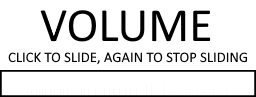
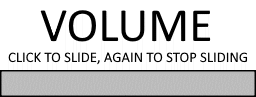
Pause Menu, Level 1 Added pause overlay with continue button, volume slider, and main menu button. Added level 1 plus its background, updated wall & door sprites. Added ability for guards to find dead guards and raise the alarm.

Changed region(s): [[0.0, 0.7113, 1.0, 0.9897]]

diff --git a/sprites.py b/sprites.py
@@ -32,7 +32,10 @@ aliveEnemyList = []
 enemyList = []
 bulletList = []
 
+# Value from the slider to be used as sound volume.
 normalisedValue = 0.5
+# Value used in main to check if guards have found a dead guard.
+enemyDetected = False
 
 
 class Player(pygame.sprite.Sprite):
@@ -359,6 +362,23 @@ class Door(pygame.sprite.Sprite):
             self.image = i.doorVerBrokenImage
 
 
+class Background(pygame.sprite.Sprite):
+    def __init__(self, mapNum):
+        pygame.sprite.Sprite.__init__(self)
+        allSprites.add(self)
+        self.image = i.map2Image
+        self.rect = self.image.get_rect(topleft=(0, 0))
+        self.mapNum = mapNum
+
+    def map_type(self):
+        if self.mapNum == 1:
+            self.image = i.map2Image
+        elif self.mapNum == 2:
+            self.image = i.map2Image
+        elif self.mapNum == 3:
+            self.image = i.map2Image
+
+
 class Enemy(pygame.sprite.Sprite):
 
     def __init__(self, xPos, yPos):
@@ -389,16 +409,8 @@ class Enemy(pygame.sprite.Sprite):
     def update(self):
         self.animation()
         if self.alive:
-            # Use the smallest rect (hitBox) for bullet collisions -- the enemy shouldn't die if the bullet just hits its torchlight.
-            # Loop through the bullets.
-            for bullet in bulletList:
-                # If a collision occurred:
-                if self.hitBox.colliderect(bullet.rect):
-                    # Delete enemy from all groups, set the bullet's alive status to false.
-                    bullet.alive = False
-                    self.alive = False
-                    aliveEnemyList.remove(self)
-                    pygame.mixer.Sound.play(i.guardDeathSound)
+            self.check_bullets()
+            self.check_dead_guards()
             # Move and look if the wait timer has run out -- see self.turn()
             if self.canMove <= pygame.time.get_ticks():
                 self.walking = True
@@ -435,7 +447,7 @@ class Enemy(pygame.sprite.Sprite):
 
         # Random chance for the enemy to stop and turn based on a time interval.
         if pygame.time.get_ticks() % 150 == 0:
-            turnChance = random.randint(1, 5)
+            turnChance = random.randint(1, 4)
             if turnChance == 1:
                 self.turn()
 
@@ -461,13 +473,6 @@ class Enemy(pygame.sprite.Sprite):
                 # Make the enemy change direction.
                 self.turn()
 
-        # If a guard's torchlight touches a dead guard, they will raise the alarm and the game will end.
-        for enemy in enemyList:
-            if self.visionRect.colliderect(enemy.hitBox):
-                if not enemy.alive:
-                    pass
-                    # GAME OVER STATE.
-
     def turn(self):
         # Sets a timer that stops the enemy from moving for 1.5 seconds.
         self.canMove = pygame.time.get_ticks() + 1500
@@ -479,6 +484,31 @@ class Enemy(pygame.sprite.Sprite):
         self.direction = random.choice(self.possibleDirections)
         # Add the old direction back to the list.
         self.possibleDirections.append(oldDirection)
+
+    def check_bullets(self):
+        # Use the smallest rect (hitBox) for bullet collisions -- the enemy shouldn't die if the bullet just hits its torchlight.
+        # Loop through the bullets.
+        for bullet in bulletList:
+            # If a collision occurred:
+            if self.hitBox.colliderect(bullet.rect):
+                # Delete enemy from all groups, set the bullet's alive status to false.
+                bullet.alive = False
+                self.alive = False
+                aliveEnemyList.remove(self)
+                pygame.mixer.Sound.play(i.guardDeathSound)
+
+    def check_dead_guards(self):
+        global enemyDetected
+        # If a guard's torchlight touches a dead guard, they will raise the alarm and the game will end.
+        # Go through the enemies:
+        for enemy in enemyList:
+            # If the guard is not this particular instance of guard:
+            if enemyList.index(enemy) != enemyList.index(self):
+                # If this guard's torchlight touches the guard:
+                if self.visionRect.colliderect(enemy.hitBox):
+                    # If the guard is dead:
+                    if not enemy.alive:
+                        enemyDetected = True
 
     def animation(self):
 
@@ -613,6 +643,7 @@ class BarSlider(pygame.sprite.Sprite):
     def __init__(self, x, y):
         pygame.sprite.Sprite.__init__(self)
         allSprites.add(self)
+        pauseOverlayGroup.add(self)
         self.image = i.barSliderImage
         self.rect = self.image.get_rect(topleft=(x, y))  # y + i.tileHeight/3 to center the slider's y position.
         self.x = x
@@ -634,6 +665,7 @@ class Knob(Button):
 
     def __init__(self, xMin, xMax, y):
         super().__init__()
+        pauseOverlayGroup.add(self)
         self.image = i.knobImage
         # Set starting pos to halfway along the slider.
         self.rect = self.image.get_rect(bottomleft=((xMax + xMin)/2, y + i.tileHeight - 3))
@@ -666,7 +698,7 @@ class Knob(Button):
     def move(self):
         if self.canMove:
             # Only move the knob along the X axis -- its Y should never change.
-            self.rect.x = pygame.mouse.get_pos()[0]
+            self.rect.x = pygame.mouse.get_pos()[0] - self.rect.width/2  # - width/2 so mouse is in the center of the knob.
             # Clamp the knob's position so it can't go past the edges of the slider.
             if self.rect.x + self.rect.width > self.max:  # + width because self.rect.x refers to the left side of the knob.
                 self.rect.x = self.max - self.rect.width

diff --git a/main.py b/main.py
@@ -156,6 +156,11 @@ while running:
                 if event.button == 1:
                     b.playerInstance.fire()
 
+        if s.enemyDetected:
+            b.playerInstance.alive = False
+            pygame.mixer.Sound.play(i.houseAlarm, -1)
+            s.enemyDetected = False
+
         # # # Updating.
         s.allSprites.update()
         # Updates the camera's position based on the player.
@@ -169,12 +174,22 @@ while running:
         # # # Blitting.
         # Offsets the sprites relative to the camera's position.
         for sprite in s.allSprites:
-            i.screen.blit(sprite.image, b.cameraInstance.offset(sprite))
+            # Don't offset the pause overlay relative to the camera's position -- this is UI and should be centered.
+            if sprite in s.pauseOverlayGroup:
+                pass
+            else:
+                i.screen.blit(sprite.image, b.cameraInstance.offset(sprite))
         i.screen.blit(fps, (50, 50))
         # Blit the score to the screen.
         i.screen.blit(scoreDisplay, (i.screenWidth - 210, 10))
         # Blit the reload or restart text.
         i.screen.blit(reloadOrRestartDisplay, (20, i.screenHeight - 50))
+
+        # # # Checking for win and lose conditions.
+        # If no enemies remain, move to the next level.
+        if len(s.aliveEnemyList) == 0:
+            i.currentLevel = l.level2
+            load_level()
 
         pygame.display.update()
         pygame.display.flip()
@@ -184,27 +199,32 @@ while running:
             # Make sure the user can still quit the application during this infinite loop.
             for event in pygame.event.get():
                 quit_event(event)
-            key = pygame.key.get_pressed()
-            if key[pygame.K_ESCAPE]:
-                toggle_pause()
-                break
+                button_click(event)
+                # Break out of the pause loop if the user hits escape again.
+                key = pygame.key.get_pressed()
+                if key[pygame.K_ESCAPE]:
+                    toggle_pause()
+                    break
+
+            # Update and blit the buttons.
+            for UI in s.pauseOverlayGroup:
+                UI.update()
+                i.screen.blit(UI.image, UI.rect)
+            pygame.display.update()
+            pygame.display.flip()
+
             for continueButton in s.continueGroup:
                 if continueButton.clicked:
-                    # Update the current level, clear the screen, then build the next level.
+                    # Break out of the pause loop if the user presses continue.
                     toggle_pause()
                     break
             for menuButton in s.menuGroup:
                 if menuButton.clicked:
+                    # Go back to the main menu if the user presses this.
                     i.currentLevel = l.menu
                     load_level()
                     toggle_pause()
                     break
-
-        # # # Checking for win and lose conditions.
-        # If no enemies remain, move to the next level.
-        if len(s.aliveEnemyList) == 0:
-            i.currentLevel = l.level2
-            load_level()
 
         # If you died, loop until user exits the game or presses R.
         while not b.playerInstance.alive:
@@ -242,13 +262,48 @@ while running:
         reloadOrRestartDisplay = font.render(i.reloadOrRestartText, True, pygame.Color('white'))
 
         for sprite in s.allSprites:
-            i.screen.blit(sprite.image, b.cameraInstance.offset(sprite))
+            if sprite in s.pauseOverlayGroup:
+                pass
+            else:
+                i.screen.blit(sprite.image, b.cameraInstance.offset(sprite))
         i.screen.blit(fps, (50, 50))
         i.screen.blit(scoreDisplay, (i.screenWidth - 210, 10))
         i.screen.blit(reloadOrRestartDisplay, (20, i.screenHeight - 50))
 
         pygame.display.update()
         pygame.display.flip()
+
+        # # # Pause.
+        while paused:
+            # Make sure the user can still quit the application during this infinite loop.
+            for event in pygame.event.get():
+                quit_event(event)
+                button_click(event)
+                # Break out of the pause loop if the user hits escape again.
+                key = pygame.key.get_pressed()
+                if key[pygame.K_ESCAPE]:
+                    toggle_pause()
+                    break
+
+            # Update and blit the buttons.
+            for button in s.buttonGroup:
+                button.update()
+                i.screen.blit(button.image, button.rect)
+            pygame.display.update()
+            pygame.display.flip()
+
+            for continueButton in s.continueGroup:
+                if continueButton.clicked:
+                    # Break out of the pause loop if the user presses continue.
+                    toggle_pause()
+                    break
+            for menuButton in s.menuGroup:
+                if menuButton.clicked:
+                    # Go back to the main menu if the user presses this.
+                    i.currentLevel = l.menu
+                    load_level()
+                    toggle_pause()
+                    break
 
         while not b.playerInstance.alive:
             for event in pygame.event.get():
@@ -258,4 +313,3 @@ while running:
                 load_level()
                 i.reloadOrRestartText = ""
                 break
-

diff --git a/levels.py b/levels.py
@@ -9,7 +9,7 @@ menu = ["          ",
         "     S    ",
         "     B    ",
         "     ?    ",
-        "     Q     "]
+        "     Q    "]
 
 howToPlay = [" I        ",
              "          ",
@@ -21,7 +21,7 @@ howToPlay = [" I        ",
 
 pause = ["          ",
          "     C    ",
-         "          ",
+         "     B    ",
          "     M    ",
          "          ",
          "          ",
@@ -29,19 +29,25 @@ pause = ["          ",
          "          "]
 
 
-level1 = ["WWWWWWWWWWWWWWWWWWWWW",
-          "W P        W  W     W",
-          "W          W  W     W",
-          "W          V  W  E  W",
-          "W    E     W  W     W",
-          "W          W  W     W",
-          "W          W  W     W",
-          "W          W  W     W",
-          "W               E   W",
-          "W                   W",
-          "W  E        WWWWHWWWW",
-          "W                   W",
-          "WWWWWWWWWWWWWWWWWWWWW"]
+level1 = ["WWWWWWWWWWWWWWWWWWWWWWWWWWW",
+          "WWE   W     WP   W      E W",
+          "WW    W     W    W   E    W",
+          "WW    W     W    W        W",
+          "WW    W     W    W        W",
+          "WW    W     V    V     E  W",
+          "WW   EW     W    W        W",
+          "WW    W     W    WWWWWWWWWW",
+          "WW    W     W            WW",
+          "WWWWHWWWWHWWW       E    WW",
+          "W    E      W            WW",
+          "W           W    WWWWWHWWWW",
+          "W           W    W     E WW",
+          "W       E   W  E W       WW",
+          "W   E       V    W       WW",
+          "W           W    W       WW",
+          "W  E    E   W    W  E    WW",
+          "W           WWWWWWWWWWWWWWW",
+          "WWWWWWWWWWWWWWWWWWWWWWWWWWW"]
 
 level2 = ["WWWWWWWWWWWWWWWW",
           "W              W",

diff --git a/build.py b/build.py
@@ -1,6 +1,7 @@
 import pygame
 import info as i
 import sprites as s
+import levels as l
 
 cameraInstance = ""
 playerInstance = ""
@@ -38,10 +39,22 @@ class Camera:
 # Function for automatically building a level written as a list of strings.
 def level_build(level):
     # Functions separated like layers -- player will always be on top of enemies, which will always be on top of walls.
+    background(level)
     build_walls(level)
     place_enemies(level)
     place_player(level)
     place_buttons(level)
+
+
+def background(level):
+    if level == l.level1:
+        s.Background(1)
+    elif level == l.level2:
+        s.Background(2)
+    # elif level == l.level3:
+    #     s.Background(3)
+    else:
+        return
 
 
 def build_walls(level):
@@ -130,6 +143,8 @@ def pause_overlay(pauseLevel):
         for column in row:
             if column == "C":
                 s.Continue(x, y)
+            if column == "B":
+                s.BarSlider(x, y)
             if column == "M":
                 s.Menu(x, y)
             x += i.tileWidth

diff --git a/info.py b/info.py
@@ -45,6 +45,7 @@ barSliderImage = pygame.image.load("Assets/UI/barSliderImage.png")
 knobImage = pygame.image.load("Assets/UI/barKnob.png")
 instructionsImage = pygame.image.load("Assets/UI/instructions.png")
 
+map2Image = pygame.image.load("Assets/Environment/map2.png")
 wallImage = pygame.image.load("Assets/Environment/wall.png")
 doorHorImage = pygame.image.load("Assets/Environment/doorHor.png")
 doorHorBrokenImage = pygame.image.load("Assets/Environment/doorHorBroken.png")
